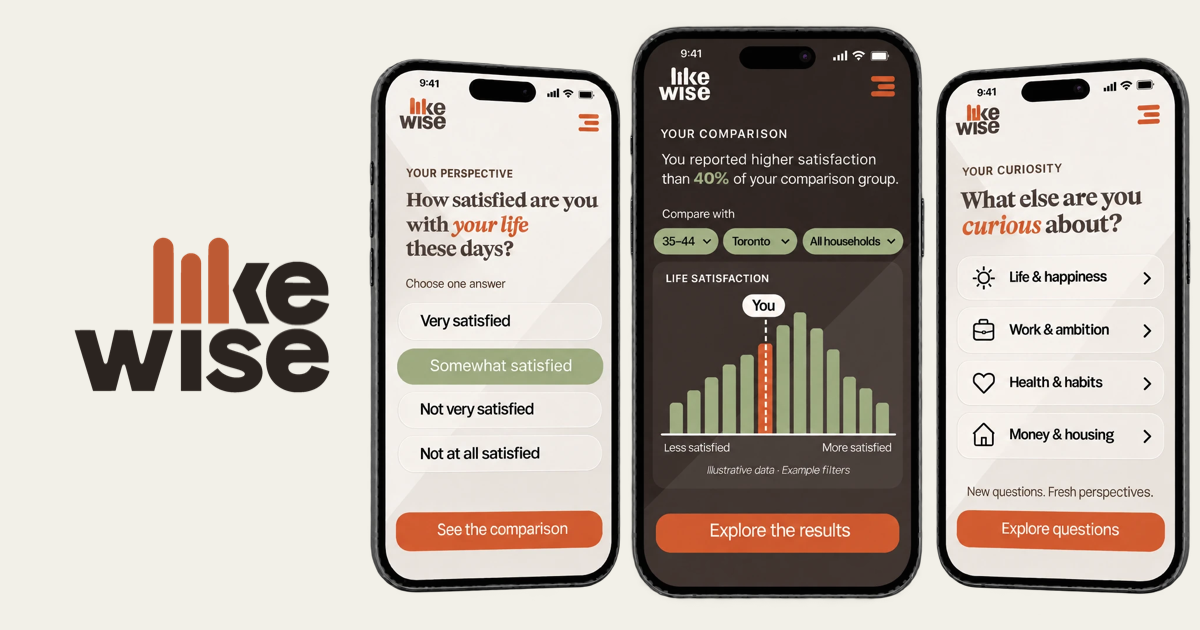
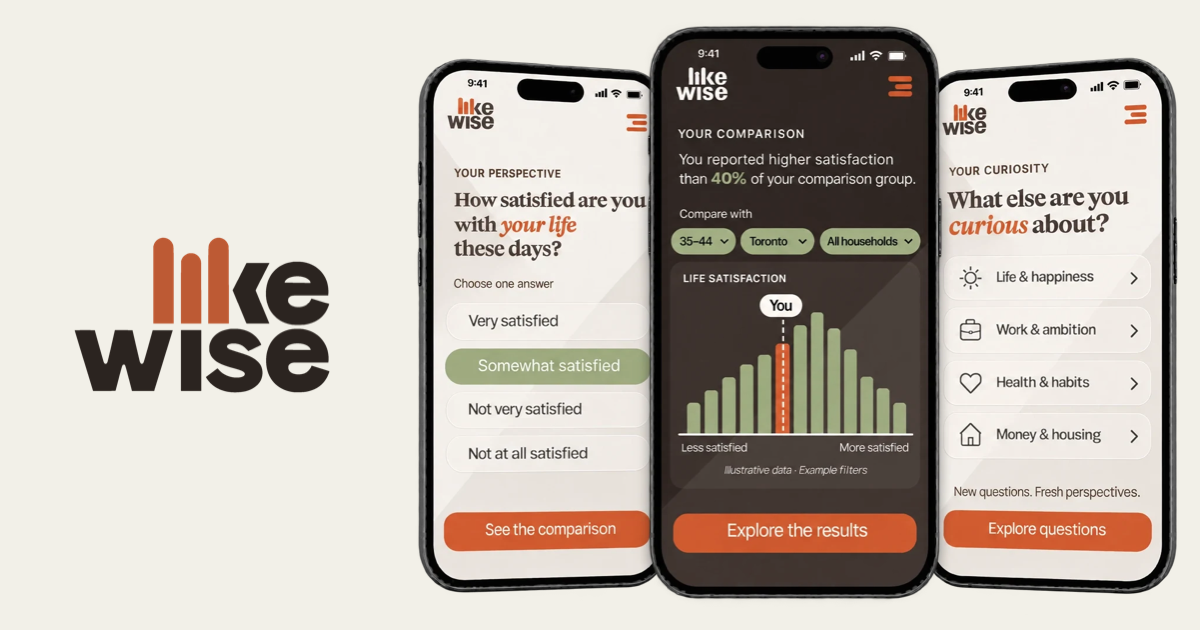
Hero image: middle phone in front, lighter answer text on side phones
- Side phones moved ~52px inward so the middle phone overlaps them, with a
  soft shadow cast onto the side phones
- Unselected answers (left phone) and topic rows (right phone) re-inked in
  dark grey with slightly thinner strokes
- New file likewise-hero-phones-overlap.webp (1340x1024, alpha kept, 170 KB)
  replaces likewise-hero-phones.webp; mobile snap points updated
- OG image regenerated from the new hero

Changed region(s): [[0.3083, 0.0302, 1.0, 0.9651]]

diff --git a/index.html b/index.html
@@ -957,12 +957,12 @@ rdt('track', 'PageVisit');
       <!-- On narrow screens this becomes a horizontal, snap-scrolling strip so each phone is readable. -->
       <div class="hero-scroller" id="heroScroller" tabindex="0" role="region" aria-label="Likewise concept screens">
         <div class="hero-track">
-          <img src="likewise-hero-phones.webp" width="1536" height="1024" fetchpriority="high" decoding="async"
+          <img src="likewise-hero-phones-overlap.webp" width="1340" height="1024" fetchpriority="high" decoding="async"
                alt="Likewise concept screens showing a life satisfaction question, a comparison preview and topics to explore."
                class="hero-phones">
-          <span class="hero-snap" style="left:18.5%" aria-hidden="true"></span>
-          <span class="hero-snap" style="left:50%" aria-hidden="true"></span>
-          <span class="hero-snap" style="left:81.5%" aria-hidden="true"></span>
+          <span class="hero-snap" style="left:17.5%" aria-hidden="true"></span>
+          <span class="hero-snap" style="left:49.6%" aria-hidden="true"></span>
+          <span class="hero-snap" style="left:82.2%" aria-hidden="true"></span>
         </div>
       </div>
       <p class="hero-swipe-hint" aria-hidden="true">
